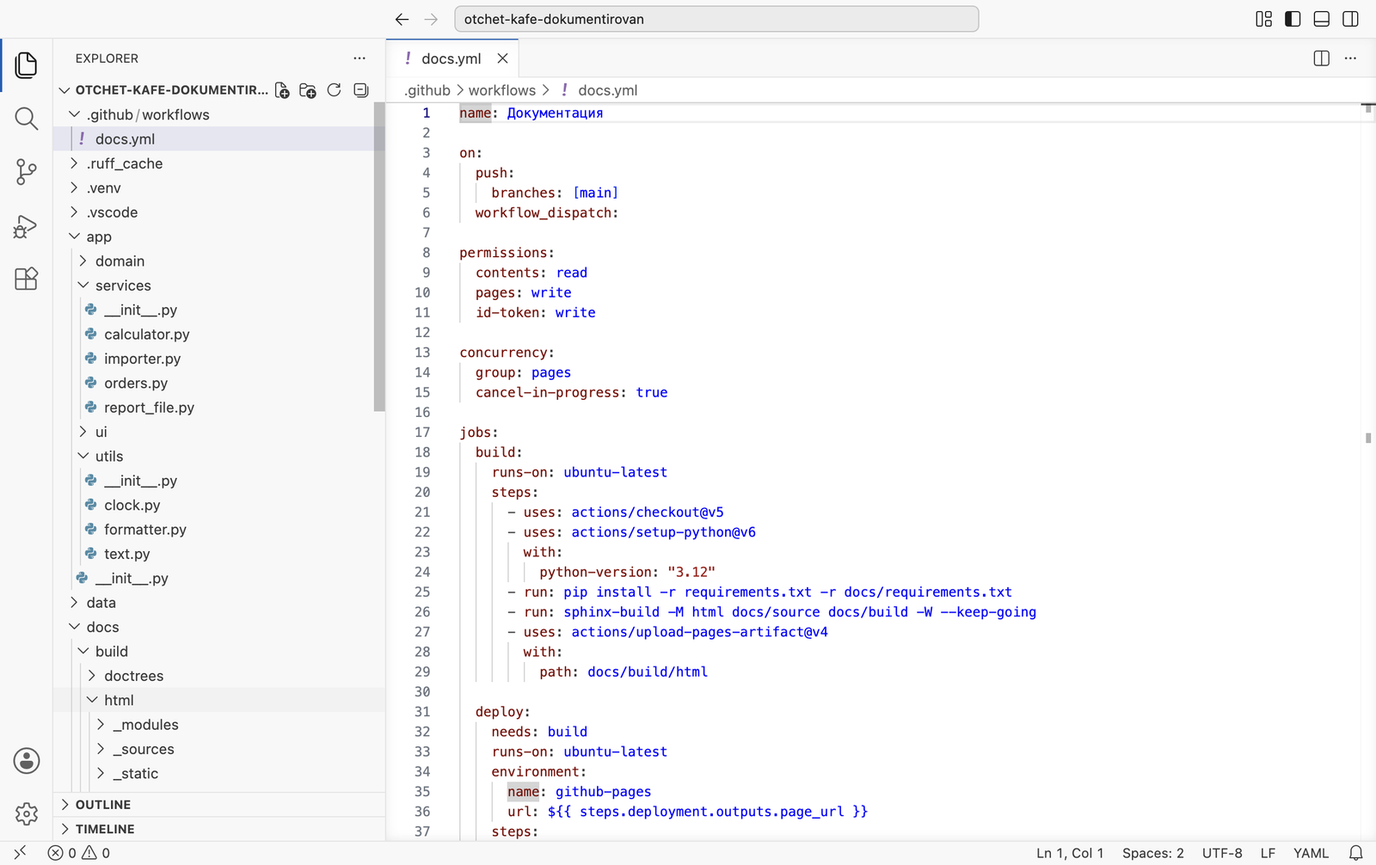
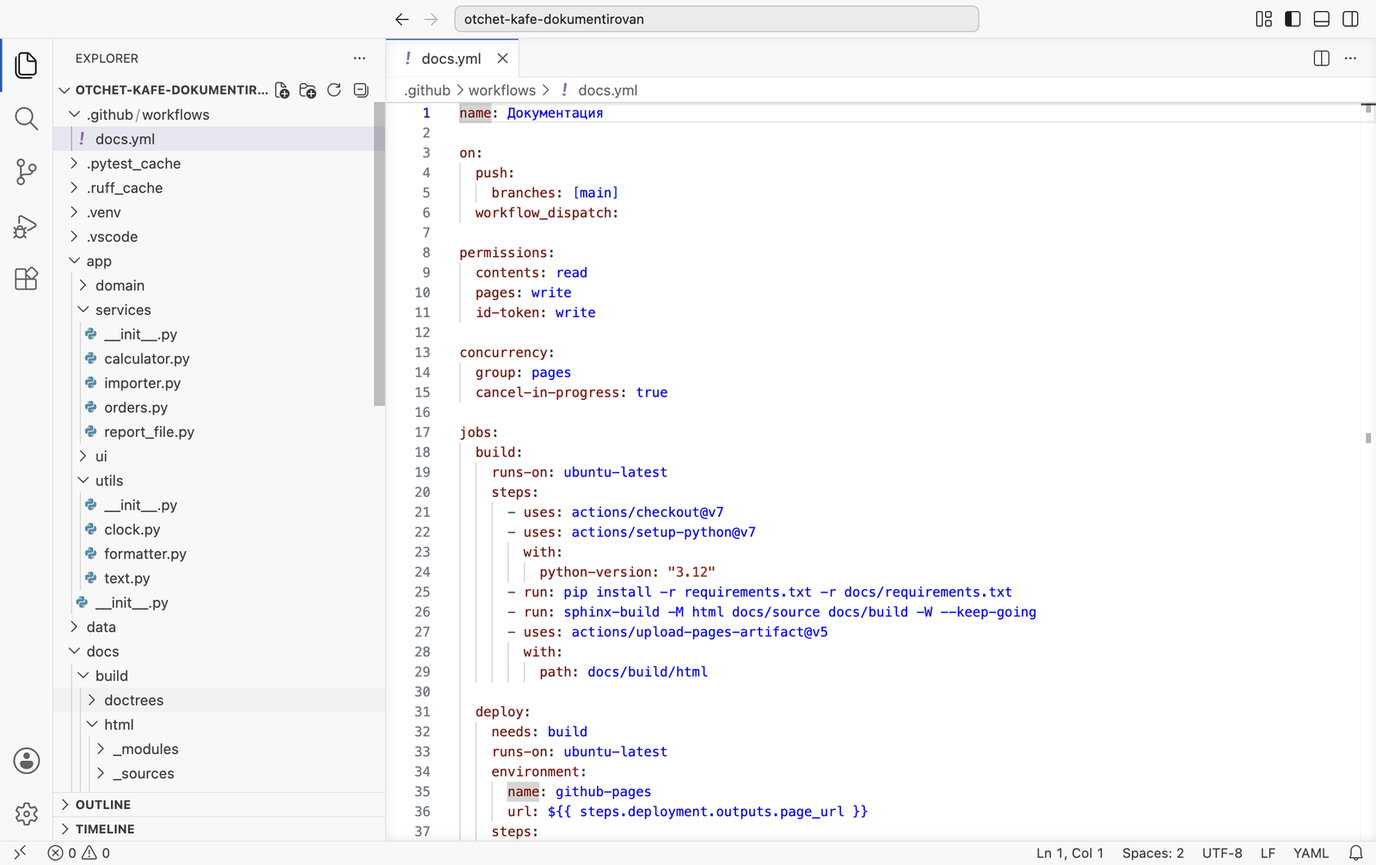
МДК.01.01 тема 04, глава 4.15: кадры GitHub Pages на демо-репозитории otchet-kafe-sphinx — выбор источника, запуск Actions, лог, адрес сайта, упавшая сборка; версии действий обновлены (checkout@v7, setup-python@v7, upload-pages-artifact@v5, deploy-pages@v5)

Changed region(s): [[0.0312, 0.1849, 0.125, 0.9245]]

diff --git a/mdk0101-razrabotka-modulei/lessons/04-docstrings-i-dokumentaciya/15-temy-i-pages.html b/mdk0101-razrabotka-modulei/lessons/04-docstrings-i-dokumentaciya/15-temy-i-pages.html
@@ -24,7 +24,7 @@
         <header class="chapter-head">
           <span class="chapter-num">4.15</span>
           <h1>Темы оформления<br>и публикация на Pages</h1>
-          <p class="lead">В этой главе сайт «Отчёта кафе» получает тему оформления Furo и выходит в интернет. Порядок такой: сравнение трёх тем, установка Furo, список зависимостей документации, файл сборки для GitHub Actions, проверка строгой сборкой и публикация на GitHub Pages. Шаги на своём компьютере показаны кадрами VS Code; шаги на сайте GitHub описаны с точными названиями пунктов.</p>
+          <p class="lead">В этой главе сайт «Отчёта кафе» получает тему оформления Furo и выходит в интернет. Порядок такой: сравнение трёх тем, установка Furo, список зависимостей документации, файл сборки для GitHub Actions, проверка строгой сборкой и публикация на GitHub Pages. Шаги на своём компьютере показаны кадрами VS Code, шаги на сайте GitHub — кадрами настоящего репозитория, в котором сайт опубликован.</p>
         </header>
 
         <dl class="passport">
@@ -219,13 +219,13 @@
   <span class="f">build:</span>
     <span class="f">runs-on:</span> ubuntu-latest
     <span class="f">steps:</span>
-      - <span class="f">uses:</span> actions/checkout@v5
-      - <span class="f">uses:</span> actions/setup-python@v6
+      - <span class="f">uses:</span> actions/checkout@v7
+      - <span class="f">uses:</span> actions/setup-python@v7
         <span class="f">with:</span>
           <span class="f">python-version:</span> <span class="s">"3.12"</span>
       - <span class="f">run:</span> pip install -r requirements.txt -r docs/requirements.txt
       - <span class="f">run:</span> sphinx-build -M html docs/source docs/build -W --keep-going
-      - <span class="f">uses:</span> actions/upload-pages-artifact@v4
+      - <span class="f">uses:</span> actions/upload-pages-artifact@v5
         <span class="f">with:</span>
           <span class="f">path:</span> docs/build/html
 
@@ -237,7 +237,7 @@
       <span class="f">url:</span> ${{ steps.deployment.outputs.page_url }}
     <span class="f">steps:</span>
       - <span class="f">id:</span> deployment
-        <span class="f">uses:</span> actions/deploy-pages@v4</pre>
+        <span class="f">uses:</span> actions/deploy-pages@v5</pre>
               </figure>
               <figure class="shot">
                 <img src="img/vscode-sphinx-15-workflow.png" alt="VS Code: в проводнике папка .github/workflows с файлом docs.yml, файл открыт">
@@ -262,7 +262,7 @@
         </div>
 
         <h2 id="s6"><span class="sec">§6</span>Публикация по шагам</h2>
-        <p>Проект должен лежать в своём репозитории на GitHub; как создать репозиторий и отправить в него проект, разобрано в справочнике по Git и GitHub. Шесть шагов: проверка у себя, настройка Pages, коммит, запуск, сайт, обновление.</p>
+        <p>Проект должен лежать в своём репозитории на GitHub; как создать репозиторий и отправить в него проект, разобрано в справочнике по Git и GitHub. Кадры ниже сняты на демонстрационном репозитории <code>MaximBytecamp/otchet-kafe-sphinx</code>, в который отправлен проект из главы 4.14 с темой Furo. Опубликованный сайт открывается по адресу <a href="https://maximbytecamp.github.io/otchet-kafe-sphinx/">maximbytecamp.github.io/otchet-kafe-sphinx</a>. Семь шагов: проверка у себя, источник Pages, коммит, запуск, лог сборки, адрес сайта, сайт.</p>
         <div class="walk">
           <div class="walk__step">
             <p class="walk__head"><span>Проверьте строгую сборку у себя</span></p>
@@ -275,53 +275,135 @@
             </div>
           </div>
           <div class="walk__step">
-            <p class="walk__head"><span>Выберите GitHub Actions источником Pages</span></p>
+            <p class="walk__head"><span>Откройте Settings → Pages</span></p>
             <div class="walk__body">
-              <p>На странице репозитория: вкладка <b>Settings</b> → в левой колонке <b>Pages</b> → блок <b>Build and deployment</b> → список <b>Source</b> → <b>GitHub Actions</b>. Выбор сохраняется сразу.</p>
-              <p>Второй вариант в списке — <b>Deploy from a branch</b> — публикует файлы, лежащие в ветке. Готовых страниц в ветке нет, поэтому в курсе выбирают GitHub Actions.</p>
+              <p>На странице репозитория откройте вкладку <b>Settings</b>, в левой колонке — <b>Pages</b>.</p>
+              <figure class="shot">
+                <img src="img/gh-pages-before.png" alt="GitHub, Settings → Pages: блок Build and deployment, Source — Deploy from a branch, Branch — None, GitHub Pages is currently disabled">
+                <figcaption>Pages ещё не включены: в блоке <b>Build and deployment</b> источник <b>Source</b> — <b>Deploy from a branch</b>, ветка <b>None</b>, и строка <b>GitHub Pages is currently disabled</b>. Пункт <b>Pages</b> в левой колонке выделен.</figcaption>
+              </figure>
             </div>
           </div>
           <div class="walk__step">
-            <p class="walk__head"><span>Отправьте коммит</span></p>
+            <p class="walk__head"><span>Выберите источник GitHub Actions</span></p>
             <div class="walk__body">
-              <p>Закоммитьте <code>docs</code> (папка <code>build</code> в коммит не попадёт — она в <code>.gitignore</code>) и <code>.github/workflows/docs.yml</code>. Отправьте в <code>main</code>: кнопка <b>Sync Changes</b> в панели Source Control или <code>git push</code>.</p>
+              <p>Щёлкните по кнопке <b>Deploy from a branch</b> под словом <b>Source</b>.</p>
+              <figure class="shot">
+                <img src="img/gh-pages-source-menu.png" alt="Раскрытый список Source: GitHub Actions — Best for using frameworks and customizing your build process; Deploy from a branch — Classic Pages experience">
+                <figcaption>Два варианта. <b>GitHub Actions</b> — страницы собирает workflow и передаёт в Pages. <b>Deploy from a branch</b> — Pages публикует файлы, лежащие в ветке. Готовых страниц в ветке нет (<code>docs/build</code> в <code>.gitignore</code>), поэтому выбирают <b>GitHub Actions</b>.</figcaption>
+              </figure>
+              <figure class="shot">
+                <img src="img/gh-pages-actions-selected.png" alt="Сообщение GitHub Pages source saved, Source — GitHub Actions, ниже предложенные workflow GitHub Pages Jekyll и Static HTML">
+                <figcaption>Сверху сообщение <b>GitHub Pages source saved.</b> — выбор сохранён сразу, кнопки «Сохранить» нет. Ниже GitHub предлагает готовые workflow (<b>GitHub Pages Jekyll</b>, <b>Static HTML</b>); их не настраивают: workflow для Sphinx — свой файл <code>docs.yml</code> из §5.</figcaption>
+              </figure>
             </div>
           </div>
           <div class="walk__step">
-            <p class="walk__head"><span>Найдите запуск на вкладке Actions</span></p>
+            <p class="walk__head"><span>Отправьте коммит с docs.yml</span></p>
             <div class="walk__body">
-              <p>Вкладка <b>Actions</b>: слева — workflow «Документация», справа — запуск с текстом вашего коммита. Жёлтый кружок — идёт, зелёная галочка — прошёл, красный крестик — ошибка. Внутри запуска — два прямоугольника, <b>build</b> и <b>deploy</b>, соединённые стрелкой. Щелчок по прямоугольнику показывает вывод каждого шага, как в терминале.</p>
+              <p>Закоммитьте <code>docs</code> (папка <code>build</code> в коммит не попадёт — она в <code>.gitignore</code>) и <code>.github/workflows/docs.yml</code>. Отправьте в <code>main</code>: кнопка <b>Sync Changes</b> в панели Source Control или <code>git push</code>. Затем откройте вкладку <b>Actions</b> репозитория.</p>
+              <figure class="shot">
+                <img src="img/gh-actions-running.png" alt="Вкладка Actions: слева workflow Документация, в списке запуск Сборка документации и публикация на GitHub Pages со статусом In progress">
+                <figcaption>Слева в разделе <b>Workflows</b> — «Документация»: так назван workflow в строке <code>name</code>. В списке запуск с текстом коммита и пометкой <b>In progress</b>, рядом жёлтый кружок. Под названием — номер запуска <b>#1</b>, коммит и автор.</figcaption>
+              </figure>
+            </div>
+          </div>
+          <div class="walk__step">
+            <p class="walk__head"><span>Откройте запуск</span></p>
+            <div class="walk__body">
+              <p>Через минуту кружок сменится зелёной галочкой. Щёлкните по названию запуска.</p>
+              <figure class="shot">
+                <img src="img/gh-run-success.png" alt="Страница запуска: Status Success, схема docs.yml — build 19s, стрелка, deploy 16s с адресом сайта под ним">
+                <figcaption>Страница запуска. Вверху <b>Status: Success</b> и общее время. В середине — схема файла <code>docs.yml</code>: задание <b>build</b>, стрелка, задание <b>deploy</b>, у обоих зелёные галочки. Под <b>deploy</b> — адрес опубликованного сайта, он кликабелен. Ниже в <b>Annotations</b> — заметка GitHub о смене версии Ubuntu на машинах; на сборку она не влияет.</figcaption>
+              </figure>
+            </div>
+          </div>
+          <div class="walk__step">
+            <p class="walk__head"><span>Прочитайте лог сборки</span></p>
+            <div class="walk__body">
+              <p>Щёлкните по <b>build</b> в левой колонке, затем по шагу <b>Run sphinx-build …</b> — он раскроется.</p>
+              <figure class="shot">
+                <img src="img/gh-job-success.png" alt="Лог задания build: шаги Set up job, checkout, setup-python, pip install, раскрыт шаг sphinx-build с выводом Running Sphinx v9.1.1, reading sources">
+                <figcaption>Шаги задания <b>build</b> идут в порядке файла: <b>Set up job</b>, <code>checkout</code>, <code>setup-python</code>, <code>pip install</code>, <code>sphinx-build</code>. Раскрытый шаг показывает тот же вывод, что в терминале VS Code, но по-английски: язык системы на машине Actions английский. <code>targets for 8 source files</code> — те же восемь страниц, что у вас.</figcaption>
+              </figure>
+            </div>
+          </div>
+          <div class="walk__step">
+            <p class="walk__head"><span>Найдите адрес сайта в Settings → Pages</span></p>
+            <div class="walk__body">
+              <figure class="shot">
+                <img src="img/gh-pages-live.png" alt="Settings → Pages: Your site is live at https://maximbytecamp.github.io/otchet-kafe-sphinx/, кнопки Visit site и Unpublish site">
+                <figcaption>Вверху блок <b>Your site is live at</b> с адресом <code>https://maximbytecamp.github.io/otchet-kafe-sphinx/</code> — логин и имя репозитория. Кнопка <b>Visit site</b> открывает сайт. Ниже — <b>Source: GitHub Actions</b> и ссылка на workflow «Документация», который выполнил последнюю публикацию.</figcaption>
+              </figure>
             </div>
           </div>
           <div class="walk__step">
             <p class="walk__head"><span>Откройте сайт</span></p>
             <div class="walk__body">
-              <p>После зелёной галочки адрес появляется под <b>deploy</b> и в <b>Settings → Pages</b> строкой <b>Your site is live at</b>. Это <code>https://логин.github.io/имя-репозитория/</code>. На сайте всё то же, что на вашем диске после строгой сборки.</p>
-            </div>
-          </div>
-          <div class="walk__step">
-            <p class="walk__head"><span>Обновите сайт правкой</span></p>
-            <div class="walk__body">
-              <p>Исправьте любой докстринг, закоммитьте и отправьте. На вкладке <b>Actions</b> появится новый запуск, через минуту-две сайт по тому же адресу покажет правку. Собирать сайт у себя перед этим не обязательно, но строгая сборка на своём компьютере быстрее показывает ошибку.</p>
+              <figure class="shot">
+                <img src="img/gh-site-live.png" alt="Опубликованный сайт Отчёт кафе 1.0 в теме Furo на github.io: главная страница, содержание">
+                <figcaption>Сайт по адресу <code>https://…github.io/…</code> — тот же, что на вашем диске после строгой сборки: тема Furo, «Запуск и проверки», дерево <code>app</code>, поиск. Теперь его можно открыть по ссылке с любого устройства.</figcaption>
+              </figure>
+              <p>Дальше сайт обновляется сам: каждая отправка в <code>main</code> запускает workflow, и через минуту-две по тому же адресу новая версия.</p>
             </div>
           </div>
         </div>
 
         <h2 id="s7"><span class="sec">§7</span>Если публикация не прошла</h2>
-        <p>Откройте запуск с красным крестиком, затем задание и шаг с крестиком: вывод там тот же, что в терминале.</p>
+        <p>Строгая сборка в workflow останавливает публикацию на любом предупреждении. Ниже это показано на коммите с той же ошибкой, что в главе 4.13, §6: в докстринг <code>revenue_by_waiter</code> дописано <code>*3 — три лучших</code>. Четыре шага: список запусков, страница запуска, лог, исправление.</p>
+        <div class="walk">
+          <div class="walk__step">
+            <p class="walk__head"><span>Найдите упавший запуск</span></p>
+            <div class="walk__body">
+              <figure class="shot">
+                <img src="img/gh-actions-failed.png" alt="Список запусков: верхний Пример значения top в докстринге с красным крестиком, два ниже с зелёными галочками">
+                <figcaption>Верхний запуск <b>#3</b> — коммит «Пример значения top в докстринге» — с красным крестиком. Два предыдущих зелёные.</figcaption>
+              </figure>
+            </div>
+          </div>
+          <div class="walk__step">
+            <p class="walk__head"><span>Откройте запуск</span></p>
+            <div class="walk__body">
+              <figure class="shot">
+                <img src="img/gh-run-failed.png" alt="Страница запуска: Status Failure, build с красным крестиком, deploy с перечёркнутым кружком, в Annotations Process completed with exit code 1">
+                <figcaption><b>Status: Failure</b>. На схеме <b>build</b> с красным крестиком, у <b>deploy</b> перечёркнутый кружок: задание пропущено, потому что сборка не прошла. Сайт по адресу остался прежним. В <b>Annotations</b> — <code>Process completed with exit code 1</code>: код завершения <code>1</code>, как в главе 4.13.</figcaption>
+              </figure>
+            </div>
+          </div>
+          <div class="walk__step">
+            <p class="walk__head"><span>Найдите предупреждение в логе</span></p>
+            <div class="walk__body">
+              <p>Откройте <b>build</b>: шаг <b>Run sphinx-build …</b> отмечен красным крестиком и раскрыт.</p>
+              <figure class="shot">
+                <img src="img/gh-job-failed-warning.png" alt="Лог шага sphinx-build: строка 26 красным — orders.py:docstring of app.services.orders.revenue_by_waiter:4: WARNING: Inline emphasis start-string without end-string">
+                <figcaption>Строка <code>26</code> лога выделена красным: <code>orders.py:docstring of app.services.orders.revenue_by_waiter:4: WARNING: Inline emphasis start-string without end-string.</code> — то же предупреждение, что в терминале в главе 4.13. Путь начинается с <code>/home/runner/work/</code> — папки проекта на машине Actions.</figcaption>
+              </figure>
+            </div>
+          </div>
+          <div class="walk__step">
+            <p class="walk__head"><span>Исправьте и отправьте ещё раз</span></p>
+            <div class="walk__body">
+              <p>Исправьте докстринг у себя, проверьте строгой сборкой, закоммитьте и отправьте.</p>
+              <figure class="shot">
+                <img src="img/gh-actions-fixed.png" alt="Список запусков: верхний Убрана звёздочка из описания top с зелёной галочкой, под ним красный запуск">
+                <figcaption>Новый запуск <b>#4</b> зелёный, сайт снова обновлён. Красный запуск остаётся в истории: по нему видно, какой коммит ломал сборку.</figcaption>
+              </figure>
+            </div>
+          </div>
+        </div>
+        <p>Другие причины, по которым публикация не проходит:</p>
         <div class="table-scroll">
           <table>
-            <thead><tr><th>Что в выводе</th><th>Причина</th><th>Что сделать</th></tr></thead>
+            <thead><tr><th>Что в логе</th><th>Причина</th><th>Что сделать</th></tr></thead>
             <tbody>
-              <tr><td><code>элемент html_static_path '_static' не существует</code></td><td>Пустой <code>_static</code> нет в репозитории</td><td>Положить в неё <code>.gitkeep</code></td></tr>
+              <tr><td><code>html_static_path entry '_static' does not exist</code></td><td>Пустой <code>_static</code> нет в репозитории</td><td>Положить в неё <code>.gitkeep</code></td></tr>
               <tr><td><code>Could not open requirements file … docs/requirements.txt</code></td><td>Файл не попал в коммит</td><td>Проверить путь и коммит</td></tr>
               <tr><td><code>failed to import</code> … <code>No module named 'app'</code></td><td>Нет строки <code>sys.path</code> в <code>conf.py</code> или проект не в корне репозитория</td><td>Глава 4.13, §4; для подпапки — глава 4.16</td></tr>
-              <tr><td>Любой <code>WARNING</code></td><td>Ключ <code>-W</code> делает его ошибкой</td><td>Повторить строгую сборку у себя, исправить</td></tr>
-              <tr><td>В <b>deploy</b>: <code>Failed to create deployment (status: 404)</code></td><td>Источник Pages не GitHub Actions</td><td>Шаг 2 из §6, затем <b>Re-run jobs</b></td></tr>
+              <tr><td>В <b>deploy</b>: <code>Failed to create deployment (status: 404)</code></td><td>Источник Pages не GitHub Actions</td><td>Шаг «Выберите источник GitHub Actions» из §6, затем <b>Re-run jobs</b></td></tr>
             </tbody>
           </table>
         </div>
-
+        <p>Сообщения в логе Actions — по-английски, на языке машины; на вашем компьютере те же сообщения выводятся по-русски.</p>
         <div class="state state--next">
           <b>Что дальше · глава 4.16</b>
           <p>Весь путь от пустой папки до опубликованного сайта пройден по частям. В главе 4.16 он проходится целиком: на паре — на новой копии проекта, дома — на своём проекте Student Tools.</p>
@@ -387,7 +469,7 @@
             <li>Тема Furo — <a href="https://pradyunsg.me/furo/">документация Furo</a>; тема Read the Docs — <a href="https://sphinx-rtd-theme.readthedocs.io/">sphinx-rtd-theme</a>.</li>
             <li>Публикация через GitHub Actions — <a href="https://docs.github.com/en/pages/getting-started-with-github-pages/configuring-a-publishing-source-for-your-github-pages-site">GitHub Docs, Configuring a publishing source</a>, <a href="https://github.com/actions/deploy-pages">actions/deploy-pages</a>.</li>
             <li>Синтаксис workflow — <a href="https://docs.github.com/en/actions/writing-workflows/workflow-syntax-for-github-actions">GitHub Docs, Workflow syntax</a>.</li>
-            <li>Кадры сняты сценариями <code>shots/shoot_sphinx.py</code> и <code>shots/sphinx_run.py</code>: Sphinx 9.1.1, Furo 2025.12.19, sphinx-rtd-theme 3.1.0.</li>
+            <li>Кадры VS Code и сайта сняты сценариями <code>shots/shoot_sphinx.py</code> и <code>shots/sphinx_run.py</code>: Sphinx 9.1.1, Furo 2025.12.19, sphinx-rtd-theme 3.1.0. Кадры GitHub сняты 29.10.2026 на репозитории <a href="https://github.com/MaximBytecamp/otchet-kafe-sphinx">MaximBytecamp/otchet-kafe-sphinx</a>.</li>
           </ol>
         </div>
 

diff --git a/mdk0101-razrabotka-modulei/lessons/04-docstrings-i-dokumentaciya/16-praktika-sphinx.html b/mdk0101-razrabotka-modulei/lessons/04-docstrings-i-dokumentaciya/16-praktika-sphinx.html
@@ -269,13 +269,13 @@
       <span class="f">run:</span>
         <span class="f">working-directory:</span> lesson_08      <span class="c"># 2. команды run — из папки проекта</span>
     <span class="f">steps:</span>
-      - <span class="f">uses:</span> actions/checkout@v5
-      - <span class="f">uses:</span> actions/setup-python@v6
+      - <span class="f">uses:</span> actions/checkout@v7
+      - <span class="f">uses:</span> actions/setup-python@v7
         <span class="f">with:</span>
           <span class="f">python-version:</span> <span class="s">"3.12"</span>
       - <span class="f">run:</span> pip install -r requirements.txt -r docs/requirements.txt
       - <span class="f">run:</span> sphinx-build -M html docs/source docs/build -W --keep-going
-      - <span class="f">uses:</span> actions/upload-pages-artifact@v4
+      - <span class="f">uses:</span> actions/upload-pages-artifact@v5
         <span class="f">with:</span>
           <span class="f">path:</span> lesson_08/docs/build/html  <span class="c"># 3. путь от корня репозитория</span>
 
@@ -287,7 +287,7 @@
       <span class="f">url:</span> ${{ steps.deployment.outputs.page_url }}
     <span class="f">steps:</span>
       - <span class="f">id:</span> deployment
-        <span class="f">uses:</span> actions/deploy-pages@v4</pre>
+        <span class="f">uses:</span> actions/deploy-pages@v5</pre>
         </figure>
         <ol>
           <li><code>paths</code> — workflow запускается, только если коммит меняет файлы внутри <code>lesson_08</code>. Сдача других работ сайт не пересобирает.</li>

diff --git a/mdk0101-razrabotka-modulei/lessons/04-docstrings-i-dokumentaciya/shots/shoot_sphinx.py b/mdk0101-razrabotka-modulei/lessons/04-docstrings-i-dokumentaciya/shots/shoot_sphinx.py
@@ -271,6 +271,12 @@ async def st_ch15(e: Editor) -> None:
     await term(e, "15-strict", BUILD + " -E -W --keep-going 2>&1 | tail -4", 14.0)
 
 
+async def st_wf(e: Editor) -> None:
+    """Только кадр docs.yml — после смены версий действий, на проекте после ch15."""
+    write(".github/workflows/docs.yml", sr.WORKFLOW)
+    await show(e, ".github/workflows/docs.yml", "15-workflow")
+
+
 # ── 4.16 ────────────────────────────────────────────────────────────────
 async def st_ch16(e: Editor) -> None:
     """Ошибка в format_kopeks: вывод -n, файл до и после, повтор -n."""

diff --git a/mdk0101-razrabotka-modulei/lessons/04-docstrings-i-dokumentaciya/shots/sphinx_run.py b/mdk0101-razrabotka-modulei/lessons/04-docstrings-i-dokumentaciya/shots/sphinx_run.py
@@ -281,13 +281,13 @@ jobs:
   build:
     runs-on: ubuntu-latest
     steps:
-      - uses: actions/checkout@v5
-      - uses: actions/setup-python@v6
+      - uses: actions/checkout@v7
+      - uses: actions/setup-python@v7
         with:
           python-version: "3.12"
       - run: pip install -r requirements.txt -r docs/requirements.txt
       - run: sphinx-build -M html docs/source docs/build -W --keep-going
-      - uses: actions/upload-pages-artifact@v4
+      - uses: actions/upload-pages-artifact@v5
         with:
           path: docs/build/html
 
@@ -299,7 +299,7 @@ jobs:
       url: ${{ steps.deployment.outputs.page_url }}
     steps:
       - id: deployment
-        uses: actions/deploy-pages@v4
+        uses: actions/deploy-pages@v5
 """
 
 
